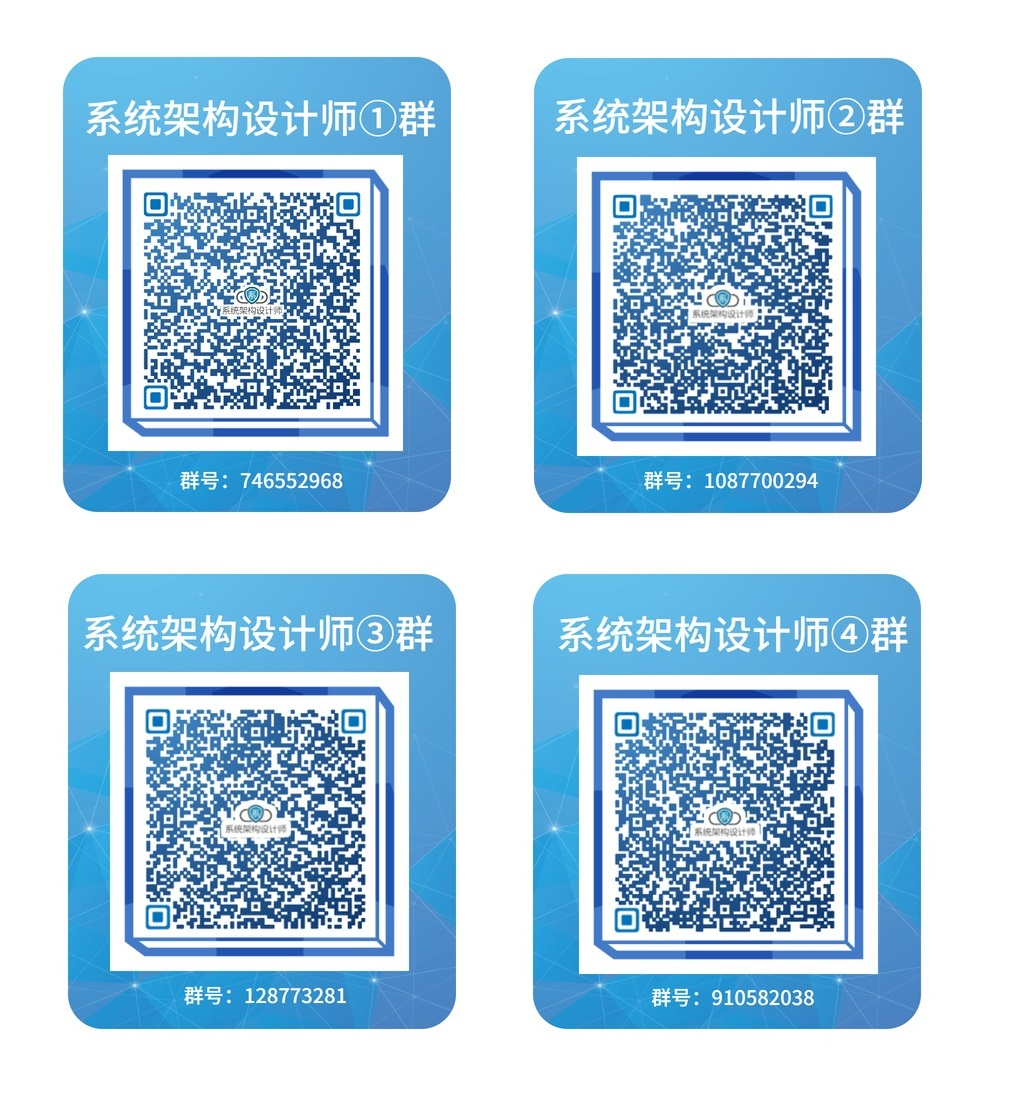
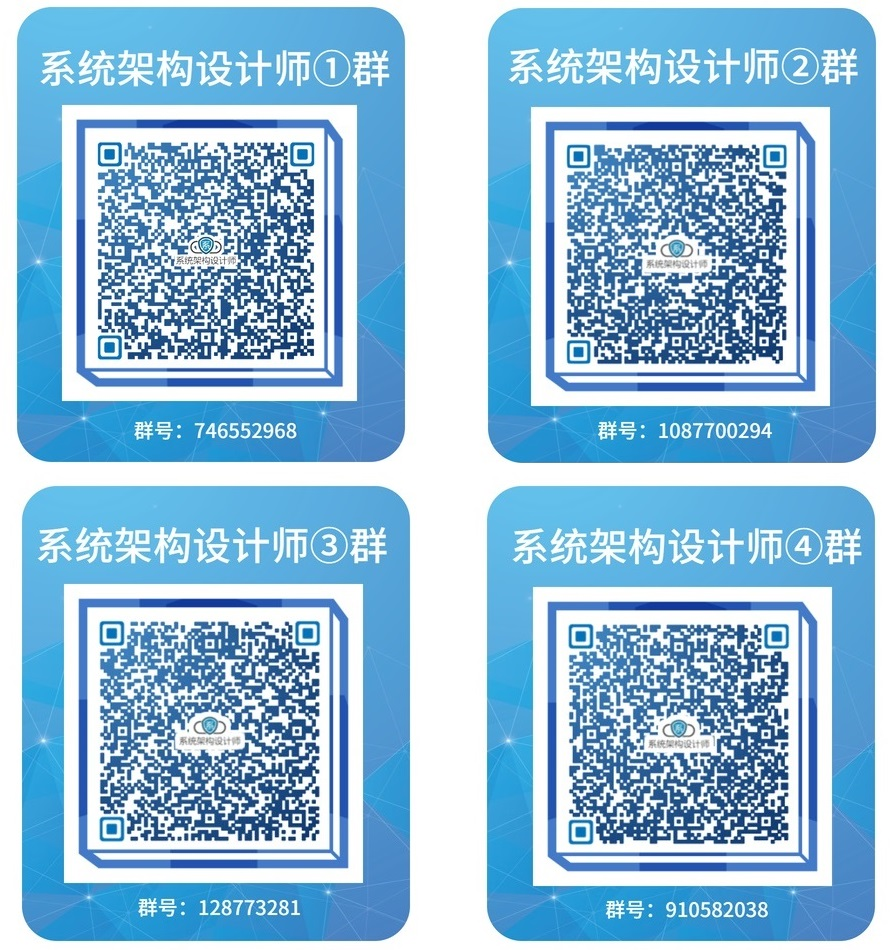
Simple Update

diff --git a/README.md b/README.md
@@ -69,7 +69,7 @@
 -  更多考试教材、视频、论文等资料，请扫码加入QQ交流群，加群请备注Github。 
 <div align="center">
   <kbd>
- <img src="https://raw.githubusercontent.com/xxlllq/2018_system_architect/master/%E9%A1%B9%E7%9B%AE%E5%9B%BE%E7%89%87/group-new.jpg" width=1000 />
+ <img src="https://raw.githubusercontent.com/xxlllq/2018_system_architect/master/%E9%A1%B9%E7%9B%AE%E5%9B%BE%E7%89%87/group-new.jpg" width=600 />
  </kbd> 
  </div>
 
